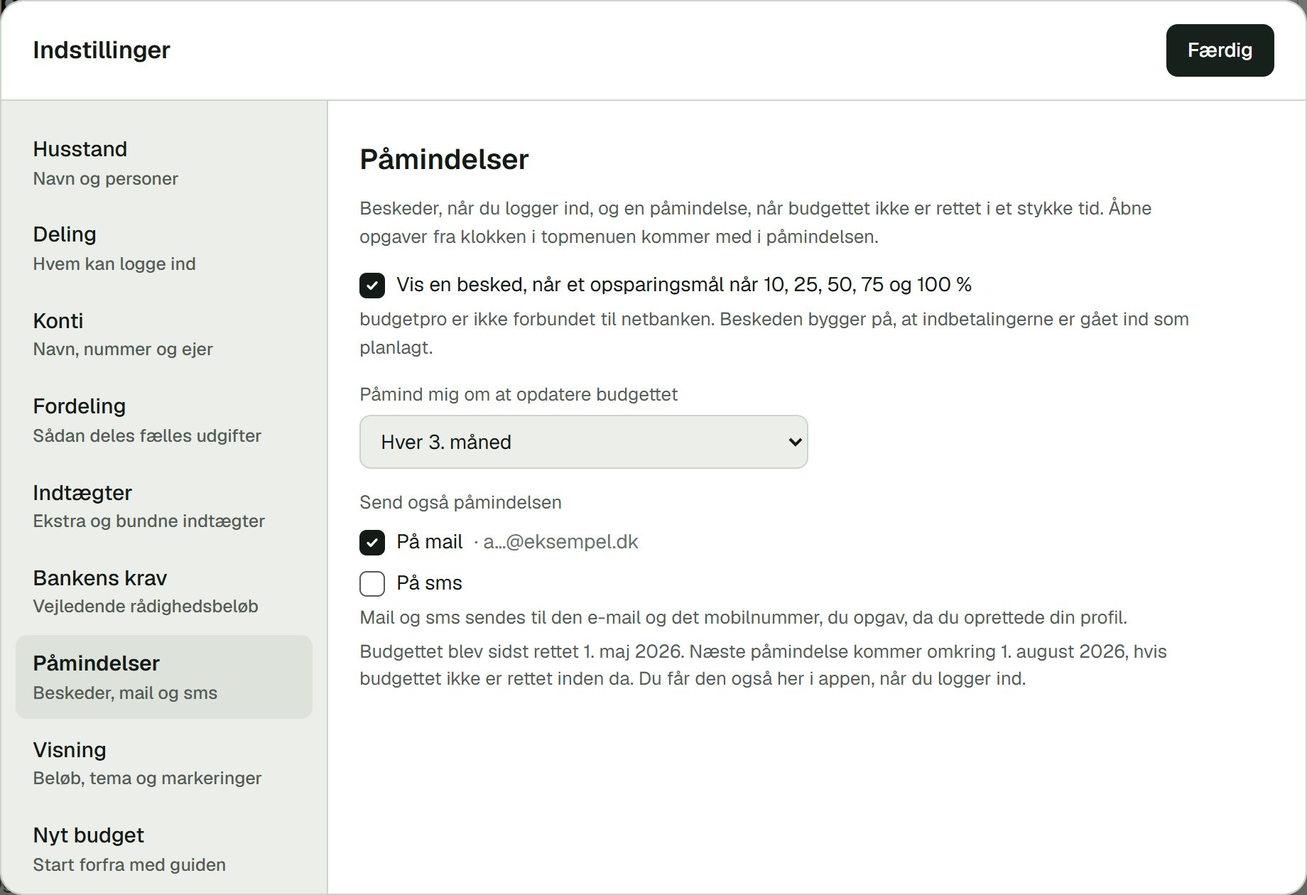
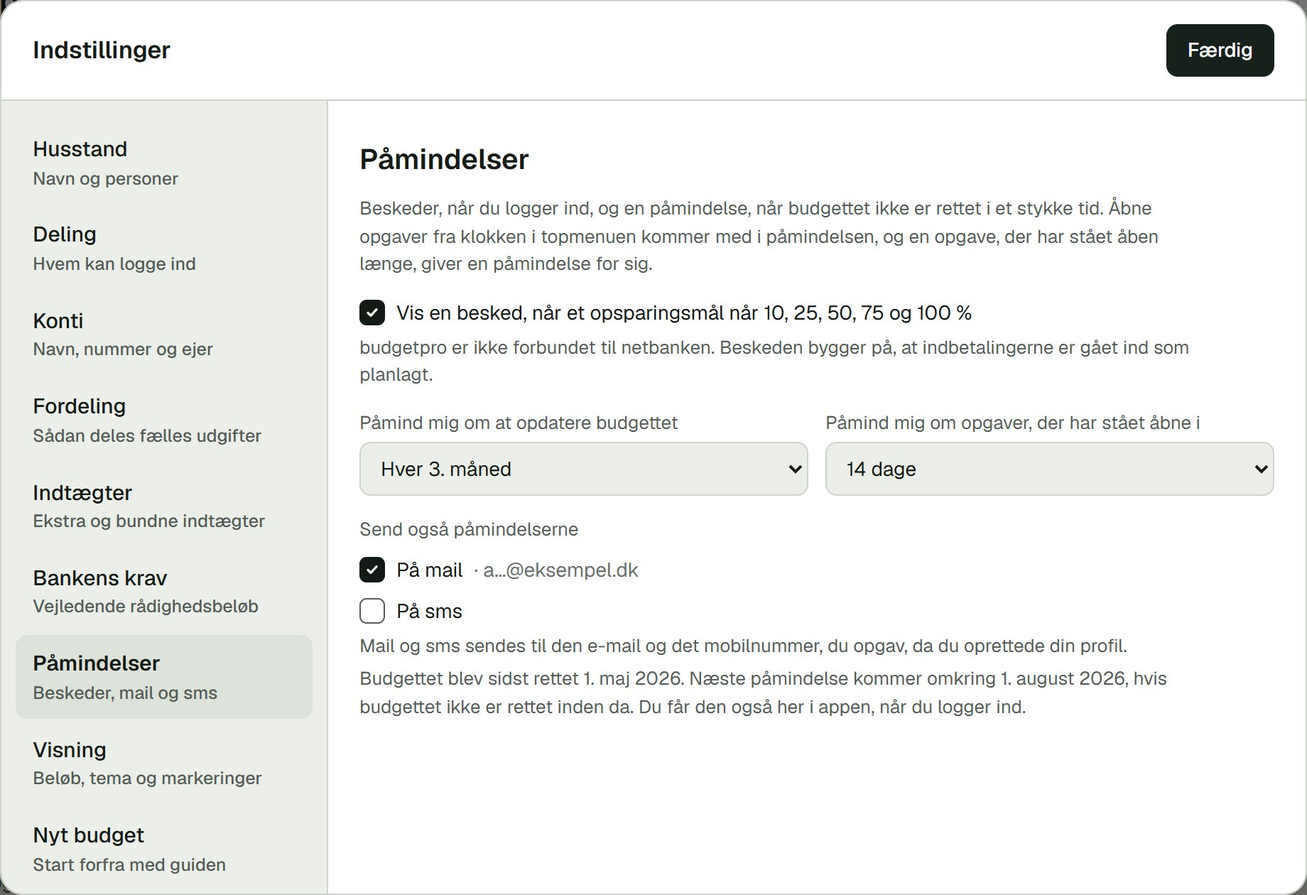
App: remind about tasks left open (default 14 days)
Tasks now carry the day they were written (todoSince). A task open for the
chosen number of days (Indstillinger > Påmindelser: never, 7, 14 or 30,
default 14) shows a login note and, on the chosen channels, a mail/SMS of
its own, at most once per period (dueTodos in lib/reminders.ts, state
todoSent in data/reminders.json, settings.todoSeen in the app). The update
reminder lists every task, so it counts as the task reminder too.

diff --git a/public/budgetr-app/index.html b/public/budgetr-app/index.html
@@ -1102,11 +1102,12 @@ dialog.howdlg{width:min(1180px,96vw);max-width:none;height:92vh;max-height:92vh;
             <div class="field"><label for="setBkR">Pr. barn, kr./md.</label><input id="setBkR" inputmode="decimal"></div>
           </div></section>
         <section class="setsec" id="set-paamind"><h3>Påmindelser</h3>
-          <p class="setnote">Beskeder, når du logger ind, og en påmindelse, når budgettet ikke er rettet i et stykke tid. Åbne opgaver fra klokken i topmenuen kommer med i påmindelsen.</p>
+          <p class="setnote">Beskeder, når du logger ind, og en påmindelse, når budgettet ikke er rettet i et stykke tid. Åbne opgaver fra klokken i topmenuen kommer med i påmindelsen, og en opgave, der har stået åben længe, giver en påmindelse for sig.</p>
           <div class="setgrp"><label class="check"><input type="checkbox" id="setMile"> Vis en besked, når et opsparingsmål når 10, 25, 50, 75 og 100 %</label>
           <p class="setnote">budgetpro er ikke forbundet til netbanken. Beskeden bygger på, at indbetalingerne er gået ind som planlagt.</p></div>
-          <div class="grid2"><div class="field"><label for="setEvery">Påmind mig om at opdatere budgettet</label><select id="setEvery"><option value="0">Aldrig</option><option value="1">Hver måned</option><option value="3">Hver 3. måned</option><option value="6">Hvert halve år</option><option value="12">En gang om året</option></select></div></div>
-          <div class="setgrp" id="wRemind"><span class="flabel">Send også påmindelsen</span>
+          <div class="grid2"><div class="field"><label for="setEvery">Påmind mig om at opdatere budgettet</label><select id="setEvery"><option value="0">Aldrig</option><option value="1">Hver måned</option><option value="3">Hver 3. måned</option><option value="6">Hvert halve år</option><option value="12">En gang om året</option></select></div>
+            <div class="field"><label for="setTodoDays">Påmind mig om opgaver, der har stået åbne i</label><select id="setTodoDays"><option value="0">Aldrig</option><option value="7">7 dage</option><option value="14">14 dage</option><option value="30">30 dage</option></select></div></div>
+          <div class="setgrp" id="wRemind"><span class="flabel">Send også påmindelserne</span>
             <label class="check"><input type="checkbox" id="setRmMail"> På mail <span class="muted" id="setRmMailTo"></span></label>
             <label class="check"><input type="checkbox" id="setRmSms"> På sms <span class="muted" id="setRmSmsTo"></span></label>
             <p class="setnote" id="setRmTo"></p>
@@ -1264,6 +1265,12 @@ const rmOf=()=>Object.assign({every:0,mail:false,sms:false},(S.settings||{}).rem
 const isoAddM=(iso,n)=>{const d=new Date(iso+'T00:00:00');d.setMonth(d.getMonth()+n);return `${d.getFullYear()}-${String(d.getMonth()+1).padStart(2,'0')}-${String(d.getDate()).padStart(2,'0')}`};
 function rmDue(){const r=rmOf(),sp=S.settings||{};if(!(+r.every>0))return null;
   return isoAddM([sp.touched,sp.remindSeen].filter(Boolean).sort().pop()||DAY(),+r.every)}
+/* Task reminder (same rule as dueTodos in lib/reminders.ts): the tasks open at least `todoDays` days (default 14,
+   0 = off), once the last task reminder shown here (settings.todoSeen) is as old. */
+const todoDays=()=>{const v=((S.settings||{}).remind||{}).todoDays;return v===undefined||v===null?14:Math.max(0,Math.round(+v||0))};
+const isoAddD=(iso,n)=>{const d=new Date(iso+'T00:00:00');d.setDate(d.getDate()+n);return `${d.getFullYear()}-${String(d.getMonth()+1).padStart(2,'0')}-${String(d.getDate()).padStart(2,'0')}`};
+function todoDue(){const n=todoDays(),sp=S.settings||{},t=DAY();if(!(n>0)||sp.todoSeen&&isoAddD(sp.todoSeen,n)>t)return [];
+  return todoList().filter(x=>x.since&&isoAddD(x.since,n)<=t)}
 const goalIn=(g,key)=>(g.scopes||[]).includes(key);
 const goalCounts=g=>g.active!==false&&!goalCalc(g).ended;
 const goalsFor=key=>(S.goals||[]).filter(g=>goalIn(g,key)&&goalCounts(g));
@@ -2478,8 +2485,8 @@ $('frm').addEventListener('submit',ev=>{
       const b=editingId?S.entries.find(x=>x.id===editingId):null;
       if(b&&!b.auto&&(+b.amount!==d.amount||(+b.freq||1)!==d.freq)&&sinceIn===(b.since||'')){d.history.push({date:b.since||DAY(),amount:+b.amount||0,freq:+b.freq||1,desc:b.since?'Gemt ved rettelse':'Gemt ved rettelse, startdato ukendt',unknown:!b.since});d.since=DAY()}
       else d.since=sinceIn||(b?b.since||'':DAY());}
-    d.todo=$('fTodo').value.trim();
-    if(editingId){Object.assign(S.entries.find(x=>x.id===editingId),d)}else{S.entries.push(Object.assign({id:uid()},d))}}
+    let x;if(editingId){x=Object.assign(S.entries.find(x=>x.id===editingId),d)}else{x=Object.assign({id:uid()},d);S.entries.push(x)}
+    setTodo(x,$('fTodo').value)}
   $('dlg').close();commit();toast(editingId?'Post gemt':'Post oprettet');
 });
 
@@ -2501,7 +2508,7 @@ function renderAccts(){
     entryCopies().forEach(e=>{if(e.payer===id)e.payer=FAELLES});(S.goals||[]).forEach(g=>{if(g.payer===id)g.payer=FAELLES});S.accounts.forEach(a=>{if(a.owner===id)a.owner=''});
     S.persons=S.persons.filter(x=>x.id!==id);if(S.settings.split==='manuel'&&S.persons.length!==2)S.settings.split='indkomst';setCommit()});
   $('acctList').querySelectorAll('.acctedit').forEach(row=>{
-    row.querySelectorAll('[data-f]').forEach(inp=>inp.onchange=()=>{const a=S.accounts.find(x=>x.id===row.dataset.id);a[inp.dataset.f]=inp.dataset.f==='todo'?inp.value.trim():inp.value;commit()});
+    row.querySelectorAll('[data-f]').forEach(inp=>inp.onchange=()=>{const a=S.accounts.find(x=>x.id===row.dataset.id);if(inp.dataset.f==='todo')setTodo(a,inp.value);else a[inp.dataset.f]=inp.value;commit()});
   });
   $('acctList').querySelectorAll('[data-del]').forEach(b=>b.onclick=()=>{
     const id=b.dataset.del, used=S.entries.filter(e=>e.account===id||e.from===id||e.to===id).length;
@@ -3064,14 +3071,15 @@ function rmToTxt(mail,sms){const P=PROFILE||{},base='Mail og sms sendes til den 
 const rmToLbl=v=>v?'· '+v:'';
 function fillRemind(){const sp=S.settings||{},r=rmOf(),due=rmDue();
   $('setMile').checked=sp.milestones!==false;$('setEvery').value=String(+r.every||0);
-  $('setRmMail').checked=!!r.mail;$('setRmSms').checked=!!r.sms;
-  $('wRemind').style.display=+r.every>0?'':'none';
+  $('setRmMail').checked=!!r.mail;$('setRmSms').checked=!!r.sms;$('setTodoDays').value=String(todoDays());
+  $('wRemind').style.display=+r.every>0||todoDays()>0?'':'none';
   const to=()=>{$('setRmMailTo').textContent=rmToLbl(PROFILE&&PROFILE.email);$('setRmSmsTo').textContent=rmToLbl(PROFILE&&PROFILE.phone);$('setRmTo').textContent=rmToTxt(r.mail,r.sms)};to();loadProfile(to);
   $('setRmNote').textContent=(sp.touched?`Budgettet blev sidst rettet ${fmtDate(sp.touched)}. `:'')
     +(due?`Næste påmindelse kommer omkring ${fmtDate(due)}, hvis budgettet ikke er rettet inden da. Du får den også her i appen, når du logger ind.`:'')}
 {const rset=(k,v)=>{S.settings.remind=Object.assign(rmOf(),{[k]:v});saveSoon();fillRemind()};
   $('setMile').onchange=e=>{S.settings.milestones=e.target.checked;saveSoon()};
   $('setEvery').onchange=e=>rset('every',+e.target.value||0);
+  $('setTodoDays').onchange=e=>rset('todoDays',+e.target.value||0);
   $('setRmMail').onchange=e=>rset('mail',e.target.checked);
   $('setRmSms').onchange=e=>rset('sms',e.target.checked);}
 /* Deling: up to three e-mails log in to one budget (lib/accounts.ts, /api/members). The primary adds and removes
@@ -3601,12 +3609,14 @@ $('btnNew').onclick=()=>{if(!S){S=blank();commit()}openEntry(null)};
 // Open tasks in the budget on screen (same rule as lib/todos.ts): the task text on accounts, then on entries,
 // and entries marked Skal tjekkes. The update reminder lists them for the primary budget.
 function todoList(B){B=B||S;if(!B)return [];const L=[],t=v=>typeof v==='string'?v.trim():'';
-  (B.accounts||[]).forEach(a=>{if(t(a.todo))L.push({k:'a',id:a.id,title:t(a.name)||'Konto',text:t(a.todo),kind:'Konto'})});
+  (B.accounts||[]).forEach(a=>{if(t(a.todo))L.push({k:'a',id:a.id,title:t(a.name)||'Konto',text:t(a.todo),kind:'Konto',since:a.todoSince})});
   (B.entries||[]).forEach(e=>{const title=t(e.desc)||'Budgetpost',kind=e.type==='overfoersel'?'Fast overførsel':e.type==='indtaegt'?'Indtægt':'Udgift';
-    if(t(e.todo))L.push({k:'e',id:e.id,f:'todo',title,text:t(e.todo),kind});
+    if(t(e.todo))L.push({k:'e',id:e.id,f:'todo',title,text:t(e.todo),kind,since:e.todoSince});
     if(e.check===true)L.push({k:'e',id:e.id,f:'check',title,text:'Tjek beløbet',kind})});
   return L}
 const todoCount=n=>n+(n===1?' opgave':' opgaver');
+// Keeps todoSince (the day a task was written, for the task reminder) in step with the task text on x.
+function setTodo(x,v){v=(v||'').trim();if(!v){delete x.todo;delete x.todoSince;return}if(!(x.todo||'').trim()||!x.todoSince)x.todoSince=DAY();x.todo=v}
 function renderTodos(){const btn=$('btnTodo'),menu=$('todoMenu'),L=todoList(),n=L.length;
   btn.parentElement.hidden=!S;$('todoN').hidden=!n;$('todoN').textContent=n>99?'99+':String(n);
   btn.setAttribute('aria-label',n?'Opgaver, '+todoCount(n):'Opgaver, ingen åbne');
@@ -3620,7 +3630,7 @@ function renderTodos(){const btn=$('btnTodo'),menu=$('todoMenu'),L=todoList(),n=
     const [k,id,f]=(ok||op).dataset[ok?'tdok':'tdopen'].split(':');
     // The list is redrawn at once, so the click must not reach the close-on-outside-click handler.
     if(ok){ev.stopPropagation();const x=k==='a'?S.accounts.find(a=>a.id===id):S.entries.find(e=>e.id===id);if(!x)return;
-      if(f==='check')x.check=false;else x.todo='';commit();toast('Opgaven er klaret');
+      if(f==='check')x.check=false;else setTodo(x,'');commit();toast('Opgaven er klaret');
       const nx=menu.querySelector('button');if(nx)nx.focus();else btn.focus();return}
     close();
     if(k==='a'){openSet('konti');setTimeout(()=>{const r=document.querySelector(`.acctedit[data-id="${id}"] .acttodo`);if(r){r.scrollIntoView({block:'center'});r.focus()}},0)}
@@ -3633,32 +3643,38 @@ function renderTodos(){const btn=$('btnTodo'),menu=$('todoMenu'),L=todoList(),n=
 function loginNotes(){const sp=S.settings||{},N=[];
   if(sp.milestones!==false)(S.goals||[]).forEach(g=>{if(g.active===false||!goalIn(g,'base'))return;const c=goalCalc(g),m=mileOf(c),h=+g.hit||0;
     if(m>h)N.push({g,c,m});else if(m<h)g.hit=m}); // the goal was changed so it is further from the target; celebrate again later
-  const due=rmDue();return {N,rem:!!due&&due<=DAY()}}
+  const due=rmDue();return {N,rem:!!due&&due<=DAY(),td:todoDue()}}
 let NOTES=null;
 function showNotes(){if(!S)return;
   // Screenshot and smoke scripts set this, so they neither show nor use up a note.
   try{if(sessionStorage.getItem('budgetr:quiet')==='1')return}catch(e){}
-  const {N,rem}=loginNotes();if(!N.length&&!rem)return;NOTES={N,rem};
-  const sp=S.settings||{},mo=sp.touched?Math.max(1,nowIdx()-mIdx(sp.touched)):0;
-  $('noteTitle').textContent=N.length?'Tillykke':'Tid til at se budgettet igennem';
+  const {N,rem,td}=loginNotes();if(!N.length&&!rem&&!td.length)return;NOTES={N,rem,td};
+  const sp=S.settings||{},mo=sp.touched?Math.max(1,nowIdx()-mIdx(sp.touched)):0,tdn=todoDays();
+  // The update reminder already mentions the open tasks, so the task row only shows without it.
+  const tdRow=td.length&&!rem?`<div class="ntrow"><span class="ntico" aria-hidden="true"><svg viewBox="0 0 24 24"><path d="M6 9a6 6 0 0 1 12 0c0 5 2 6.5 2 6.5H4S6 14 6 9z"/><path d="M10 19a2 2 0 0 0 4 0"/></svg></span><div><b>${td.length===1?'En opgave venter stadig':td.length+' opgaver venter stadig'}</b>
+      <p>${td.length===1?'Den har':'De har'} stået åben i mere end ${tdn} dage: ${td.slice(0,3).map(x=>esc(x.title)+' ('+esc(x.text)+')').join(', ')}${td.length>3?` og ${todoCount(td.length-3)} mere`:''}.</p><small>Markér en opgave som klaret under klokken i topmenuen, når den er gjort.</small></div></div>`:'';
+  $('noteTitle').textContent=N.length?'Tillykke':rem?'Tid til at se budgettet igennem':'Opgaver, der venter';
   $('noteSub').textContent=N.length?(N.length===1?'Du er nået en milepæl i din opsparing.':'Du er nået nogle milepæle i din opsparing.'):'';
   $('noteBody').innerHTML=N.map(({g,c,m})=>`<div class="ntrow"><span class="ntring" style="--p:${m};--c:${gColor(g)}"><b>${m} %</b></span><div><b>${esc(g.name||'Mål')}</b>
       <p>${m===100?'Du bør nu have nået hele dit opsparingsmål.':`Du bør nu have nået ${m} % af dit opsparingsmål.`}</p><small>Skønnet opsparet ${kr(c.est)} af ${kr(c.T)}</small></div></div>`).join('')
     +(N.length?'<p class="ntfoot">budgetpro er ikke forbundet til din netbank. Tallet bygger på, at indbetalingerne er gået ind som planlagt.</p>':'')
     +(rem?`<div class="ntrow"><span class="ntico" aria-hidden="true"><svg viewBox="0 0 24 24"><rect x="4" y="5" width="16" height="15" rx="2"/><path d="M4 10h16M9 3v4M15 3v4"/></svg></span><div><b>${N.length?'Tid til at se budgettet igennem':'Påmindelse'}</b>
-      <p>${mo?`Det er ${mo===1?'en måned':mo+' måneder'} siden, du sidst rettede i budgettet.`:'Det er et stykke tid siden, du sidst rettede i budgettet.'} Se beløbene igennem, så de passer med det, der faktisk går ind og ud af kontiene.${(n=>n?` Du har også ${todoCount(n)}, der venter under klokken øverst.`:'')(todoList().length)}</p></div></div>`:'');
-  $('btnNoteGo').textContent=N.length?'Se opsparingsmål':'Se budgetposter';$('btnNoteGo').dataset.go=N.length?'maal':'poster';
+      <p>${mo?`Det er ${mo===1?'en måned':mo+' måneder'} siden, du sidst rettede i budgettet.`:'Det er et stykke tid siden, du sidst rettede i budgettet.'} Se beløbene igennem, så de passer med det, der faktisk går ind og ud af kontiene.${(n=>n?` Du har også ${todoCount(n)}, der venter under klokken øverst.`:'')(todoList().length)}</p></div></div>`:'')+tdRow;
+  $('btnNoteGo').textContent=N.length?'Se opsparingsmål':rem?'Se budgetposter':'Se opgaverne';$('btnNoteGo').dataset.go=N.length?'maal':rem?'poster':'todo';
   $('dlgNote').showModal()}
 // Closing the note in any way marks it as seen.
-$('dlgNote').addEventListener('close',()=>{if(!NOTES)return;const {N,rem}=NOTES;NOTES=null;N.forEach(x=>x.g.hit=x.m);if(rem)rootS().settings.remindSeen=DAY();saveSoon()});
+$('dlgNote').addEventListener('close',()=>{if(!NOTES)return;const {N,rem,td}=NOTES;NOTES=null;N.forEach(x=>x.g.hit=x.m);if(rem)rootS().settings.remindSeen=DAY();
+  if(rem&&todoList().length||td.length)rootS().settings.todoSeen=DAY();saveSoon()});
 $('btnNoteClose').onclick=()=>$('dlgNote').close();
-$('btnNoteGo').onclick=()=>{const p=$('btnNoteGo').dataset.go;$('dlgNote').close();const t=document.querySelector(`[data-page="${p}"]`);if(t)t.click()};
+$('btnNoteGo').onclick=()=>{const p=$('btnNoteGo').dataset.go;$('dlgNote').close();if(p==='todo'){setTimeout(()=>$('btnTodo').click(),0);return}const t=document.querySelector(`[data-page="${p}"]`);if(t)t.click()};
 
 /* ---------- opstart ---------- */
 function loadLocal(){try{const v=localStorage.getItem(window.BUDGETR_KEY);if(v)return JSON.parse(v)}catch(e){}try{return window.BUDGETR_SEED?JSON.parse(window.BUDGETR_SEED):null}catch(e){return null}}
 function normalize(x){if(!x||!Array.isArray(x.entries))return null;x.scenarios=Array.isArray(x.scenarios)?x.scenarios:[];x.loans=Array.isArray(x.loans)?x.loans:[];x.goals=Array.isArray(x.goals)?x.goals:[];x.goals.forEach(g=>{if(!Array.isArray(g.scopes))g.scopes=['base']});(x.persons||[]).forEach(p=>{if(!Array.isArray(p.extras)&&p.extra===undefined)return;const L=Array.isArray(p.extras)?p.extras:[{desc:'',amount:+p.extra||0}],acc=((x.accounts||[]).find(a=>a.type!=='faelles'&&a.owner===p.id)||{}).id||'';
   L.filter(v=>+v.amount>0).forEach((v,i)=>x.entries.push({id:'x'+p.id+i+Date.now().toString(36),type:'indtaegt',desc:v.desc||'Ekstra indtjening',key:'',category:'',freq:0,start:1,amount:Math.round(+v.amount),account:acc,payer:p.id,extra:true,split:false,active:true,check:false,note:'',since:DAY()}));
   delete p.extras;delete p.extra});x.persons=x.persons||[];x.accounts=x.accounts||[];x.settings=x.settings||{split:'indkomst',manualPct:50};
+  // Tasks written before todoSince existed count from today.
+  [...x.accounts,...x.entries].forEach(o=>{if(o&&typeof o.todo==='string'&&o.todo.trim()&&!o.todoSince)o.todoSince=DAY()});
   // Contact details belong on the profile, not in the budget (an early version kept them here).
   const rm=x.settings.remind;if(rm&&typeof rm==='object'){delete rm.email;delete rm.phone}
   // Drafts are whole budgets kept inside the primary one (one level deep).

diff --git a/lib/reminders.ts b/lib/reminders.ts
@@ -7,7 +7,8 @@
  * after the later of the last change to the budget (settings.touched) and the last reminder, whether sent
  * or shown in the app at login (settings.remindSeen).
  *
- * Open tasks (lib/todos.ts) are listed in the message, so they come along with the reminder.
+ * Open tasks (lib/todos.ts) are listed in the message, so they come along with the reminder. A task left
+ * open for `todoDays` days (default 14) sends a reminder of its own on the same channels (dueTodos).
  *
  * Plain TypeScript, so Node can run it directly from the .mjs script.
  */
@@ -19,7 +20,11 @@ export interface RemindSettings {
   every?: number;
   mail?: boolean;
   sms?: boolean;
+  /** Days a task may stay open before it sends a reminder of its own; 0 = off, missing = TODO_DAYS. */
+  todoDays?: number;
 }
+
+export const TODO_DAYS = 14;
 
 /** The contact details from the profile. */
 export interface Contact {
@@ -69,10 +74,39 @@ export function dueReminder(r: RemindSettings | undefined, contact: Contact, tou
   const from = lastSent && lastSent > touched ? lastSent : touched;
   const due = addMonths(from, every);
   if (due > now) return null;
-  const email = r.mail && isEmail(contact.email) ? contact.email!.trim() : undefined;
-  const msisdn = (r.sms && toMsisdn(contact.phone)) || undefined;
-  if (!email && !msisdn) return null;
-  return { due, email, msisdn };
+  const ch = channels(r, contact);
+  return ch && { due, ...ch };
+}
+
+/** The chosen channels the profile has a valid address for, or null when none is left. */
+export function channels(r: RemindSettings | undefined, contact: Contact): { email?: string; msisdn?: string } | null {
+  const email = r?.mail && isEmail(contact.email) ? contact.email!.trim() : undefined;
+  const msisdn = (r?.sms && toMsisdn(contact.phone)) || undefined;
+  return email || msisdn ? { email, msisdn } : null;
+}
+
+export function addDays(d: Date, n: number): Date {
+  const x = new Date(d.getTime());
+  x.setDate(x.getDate() + n);
+  return x;
+}
+
+/** The chosen number of days for the task reminder (0 = off). */
+export const todoDaysOf = (r: RemindSettings | undefined) =>
+  r?.todoDays === undefined || r.todoDays === null ? TODO_DAYS : Math.max(0, Math.round(Number(r.todoDays) || 0));
+
+/**
+ * The task reminder (the app uses the same rule for its login note): due when a task has been open at
+ * least `days` days and the last task reminder, sent or shown at login, is at least `days` days old.
+ * Returns the tasks that have waited that long, or null. Tasks without a start day never count.
+ */
+export function dueTodos(todos: Todo[], days: number, last: Date | null, now: Date): Todo[] | null {
+  if (!(days > 0) || (last && addDays(last, days) > now)) return null;
+  const old = todos.filter((t) => {
+    const d = parseDay(t.since);
+    return d && addDays(d, days) <= now;
+  });
+  return old.length ? old : null;
 }
 
 /** Whole calendar months from `a` to `b`, at least 1. */
@@ -87,13 +121,7 @@ export function reminderText(title: string, touched: Date, now: Date, url: strin
   const n = monthsBetween(touched, now);
   const since = `Det er ${n === 1 ? "en måned" : `${n} måneder`} siden, du sidst rettede i budgettet`;
   const name = title.trim() || "dit budget";
-  const more = todos.length - MAIL_TODOS;
-  const tasks = todos.length
-    ? `Du har ${todoCount(todos.length)}, der venter:\n` +
-      todos.slice(0, MAIL_TODOS).map((t) => `- ${t.title}: ${t.text}\n`).join("") +
-      (more > 0 ? `- og ${todoCount(more)} mere\n` : "") +
-      "\n"
-    : "";
+  const tasks = todos.length ? `Du har ${todoCount(todos.length)}, der venter:\n${todoLines(todos)}\n` : "";
   return {
     subject: "Tid til at se budgettet igennem",
     text:
@@ -101,5 +129,26 @@ export function reminderText(title: string, touched: Date, now: Date, url: strin
       tasks +
       `${url}\n\nDu kan ændre eller slå påmindelsen fra under Indstillinger, Påmindelser.\n\nbudgetpro`,
     sms: `budgetpro: ${since}.${todos.length ? ` Du har ${todoCount(todos.length)}.` : ""} Se det igennem, når du har tid: ${url}`,
+  };
+}
+
+const todoLines = (todos: Todo[]) => {
+  const more = todos.length - MAIL_TODOS;
+  return todos.slice(0, MAIL_TODOS).map((t) => `- ${t.title}: ${t.text}\n`).join("") + (more > 0 ? `- og ${todoCount(more)} mere\n` : "");
+};
+
+/** The task reminder: `old` are the tasks that have waited `days` days, `all` every open task. */
+export function todoReminderText(title: string, old: Todo[], all: number, days: number, url: string) {
+  const name = title.trim() || "dit budget";
+  const waited = `${old.length === 1 ? "En opgave" : `${old.length} opgaver`} i ${name} har ventet i mere end ${days} dage`;
+  const rest = all - old.length;
+  return {
+    subject: old.length === 1 ? "En opgave venter stadig" : "Nogle opgaver venter stadig",
+    text:
+      `Hej\n\n${waited}:\n${todoLines(old)}` +
+      (rest > 0 ? `\nDu har også ${todoCount(rest)} mere, som er nyere.\n` : "") +
+      `\nMarkér en opgave som klaret under klokken i topmenuen, når den er gjort.\n\n${url}\n\n` +
+      `Du kan ændre eller slå påmindelsen om opgaver fra under Indstillinger, Påmindelser.\n\nbudgetpro`,
+    sms: `budgetpro: ${old.length === 1 ? "En opgave" : `${old.length} opgaver`} har ventet i mere end ${days} dage. Se dem under klokken: ${url}`,
   };
 }

diff --git a/lib/reminders.test.ts b/lib/reminders.test.ts
@@ -1,5 +1,6 @@
 import { describe, expect, it } from "vitest";
-import { addMonths, dueReminder, parseDay, reminderText, toMsisdn } from "./reminders";
+import type { Todo } from "./todos";
+import { addMonths, dueReminder, dueTodos, parseDay, reminderText, TODO_DAYS, todoDaysOf, todoReminderText, toMsisdn } from "./reminders";
 
 const day = (s: string) => parseDay(s)!;
 
@@ -58,5 +59,40 @@ describe("helpers", () => {
     expect(t.sms).toContain("Du har 12 opgaver.");
     expect(t.sms.length).toBeLessThanOrEqual(160);
     expect(reminderText("", day("2026-06-10"), day("2026-09-30"), "u").text).not.toContain("opgave");
+  });
+});
+
+describe("task reminder", () => {
+  const todos: Todo[] = [
+    { title: "Opsparing", text: "Opret kontoen i banken", since: "2026-09-10" },
+    { title: "Husleje", text: "Opret den faste overførsel i banken", since: "2026-09-25" },
+    { title: "Forsikring", text: "Tjek beløbet" },
+  ];
+
+  it("is due when a task has waited the chosen number of days", () => {
+    expect(dueTodos(todos, 14, null, day("2026-09-23"))).toBeNull();
+    expect(dueTodos(todos, 14, null, day("2026-09-24"))).toEqual(todos.slice(0, 1));
+    expect(dueTodos(todos, 0, null, day("2026-12-01"))).toBeNull();
+  });
+
+  it("waits the same number of days after the last task reminder", () => {
+    expect(dueTodos(todos, 14, day("2026-09-20"), day("2026-10-03"))).toBeNull();
+    expect(dueTodos(todos, 14, day("2026-09-20"), day("2026-10-04"))?.length).toBe(1);
+  });
+
+  it("defaults to 14 days and respects off", () => {
+    expect(todoDaysOf(undefined)).toBe(TODO_DAYS);
+    expect(todoDaysOf({ every: 3 })).toBe(14);
+    expect(todoDaysOf({ todoDays: 0 })).toBe(0);
+    expect(todoDaysOf({ todoDays: 30 })).toBe(30);
+  });
+
+  it("writes calm Danish texts", () => {
+    const t = todoReminderText("Vores budget", todos.slice(0, 1), 3, 14, "http://localhost:3200/app");
+    expect(t.subject).toBe("En opgave venter stadig");
+    expect(t.text).toContain("En opgave i Vores budget har ventet i mere end 14 dage:\n- Opsparing: Opret kontoen i banken\n");
+    expect(t.text).toContain("Du har også 2 opgaver mere, som er nyere.");
+    expect(t.sms.length).toBeLessThanOrEqual(160);
+    expect(`${t.subject}${t.text}${t.sms}`).not.toContain("!");
   });
 });

diff --git a/lib/todos.ts b/lib/todos.ts
@@ -2,7 +2,8 @@
  * Open tasks (Opgaver) in a budget. The user writes a task on a budget entry or an account in the app
  * (field `todo`, e.g. "Opret den faste overførsel i banken"), and entries marked "Skal tjekkes" (`check`)
  * count too. The app shows them under the bell in the top bar (same rule as todoList() in
- * public/budgetr-app/index.html), and the update reminder lists them (lib/reminders.ts).
+ * public/budgetr-app/index.html), the update reminder lists them, and tasks left open too long send
+ * a reminder of their own (lib/reminders.ts).
  *
  * Plain TypeScript with no imports, so Node can run it directly from the .mjs script.
  */
@@ -12,14 +13,19 @@ export interface Todo {
   title: string;
   /** What to do. */
   text: string;
+  /** The day the task was written (`todoSince`, "2026-09-30"); Skal tjekkes has none. */
+  since?: string;
 }
 
 interface Item {
   desc?: unknown;
   name?: unknown;
   todo?: unknown;
+  todoSince?: unknown;
   check?: unknown;
 }
+
+const day = (v: unknown) => (typeof v === "string" && /^\d{4}-\d{2}-\d{2}/.test(v) ? v.slice(0, 10) : undefined);
 
 const str = (v: unknown) => (typeof v === "string" ? v.trim() : "");
 
@@ -31,12 +37,12 @@ export function openTodos(budget: { accounts?: unknown; entries?: unknown } | nu
   const out: Todo[] = [];
   for (const a of list(budget?.accounts)) {
     const t = str(a.todo);
-    if (t) out.push({ title: str(a.name) || "Konto", text: t });
+    if (t) out.push({ title: str(a.name) || "Konto", text: t, since: day(a.todoSince) });
   }
   for (const e of list(budget?.entries)) {
     const title = str(e.desc) || "Budgetpost";
     const t = str(e.todo);
-    if (t) out.push({ title, text: t });
+    if (t) out.push({ title, text: t, since: day(e.todoSince) });
     if (e.check === true) out.push({ title, text: CHECK_TEXT });
   }
   return out;
